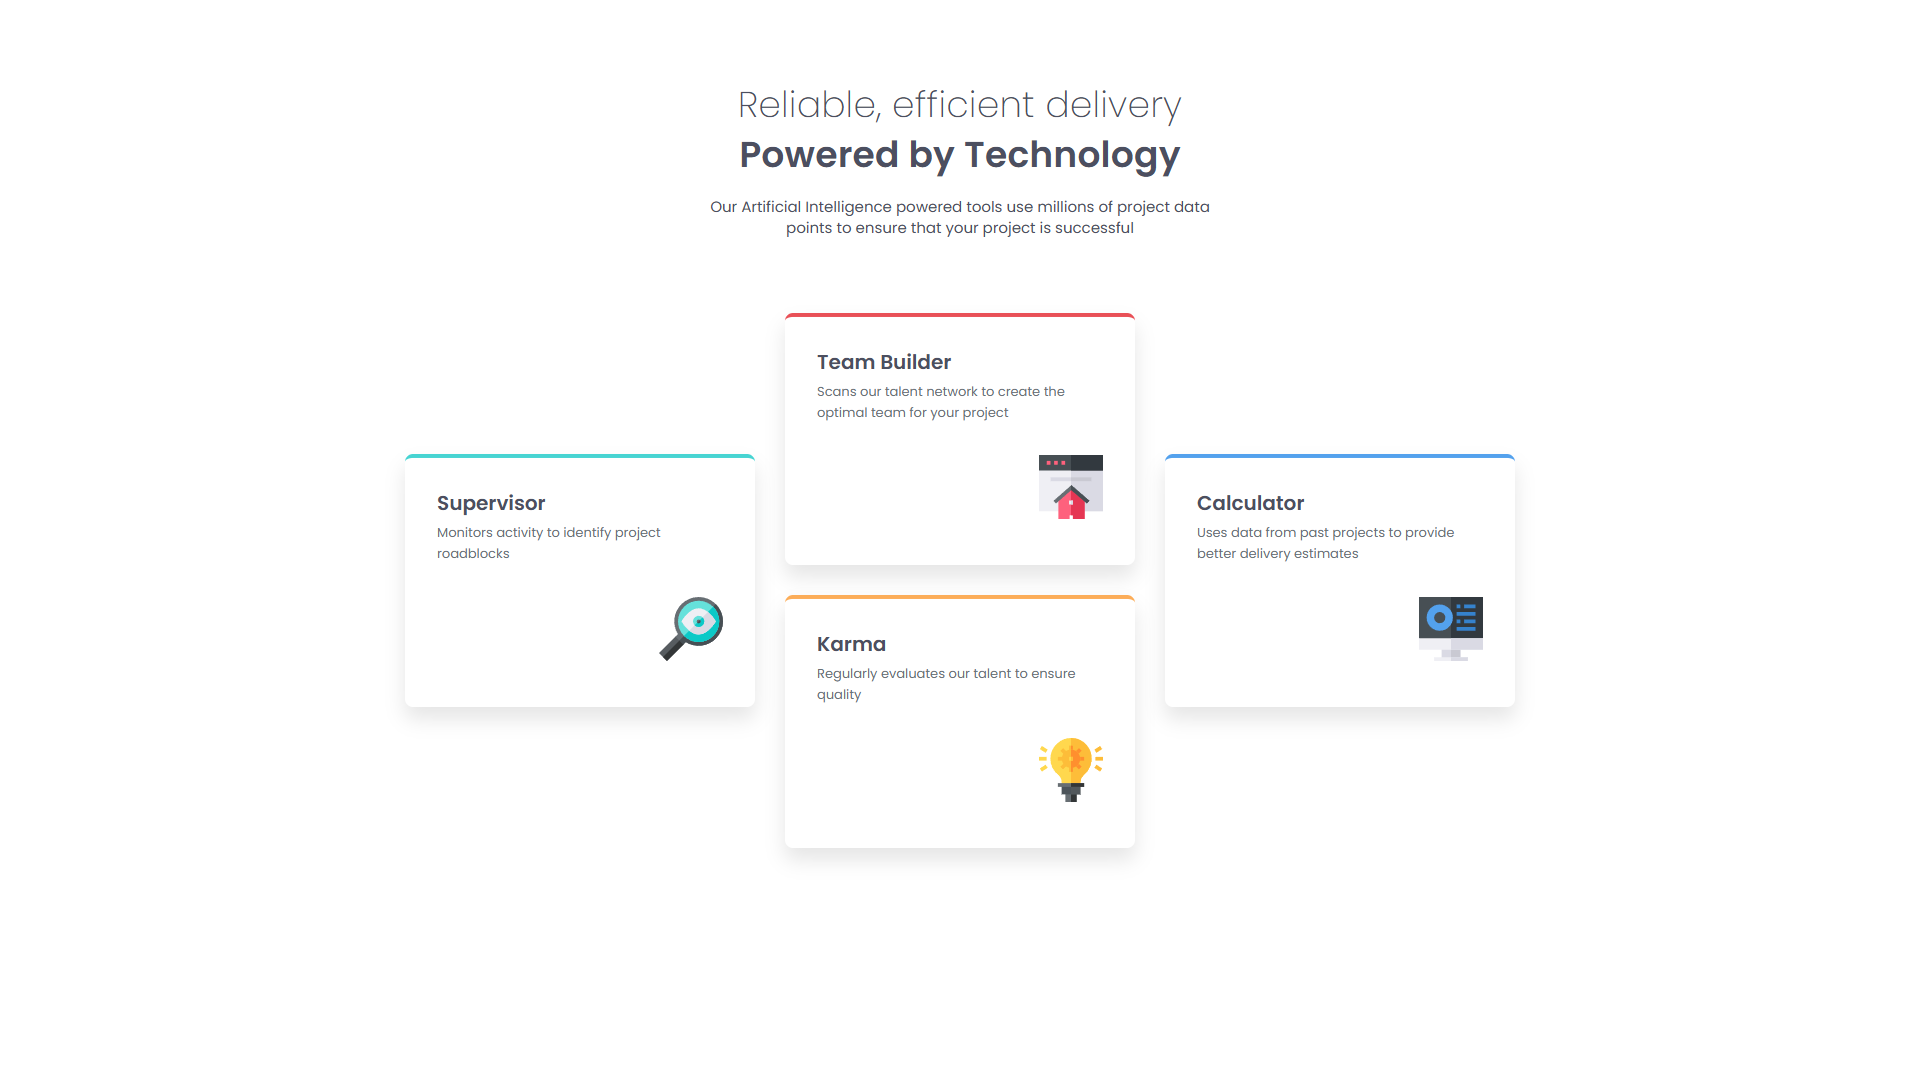
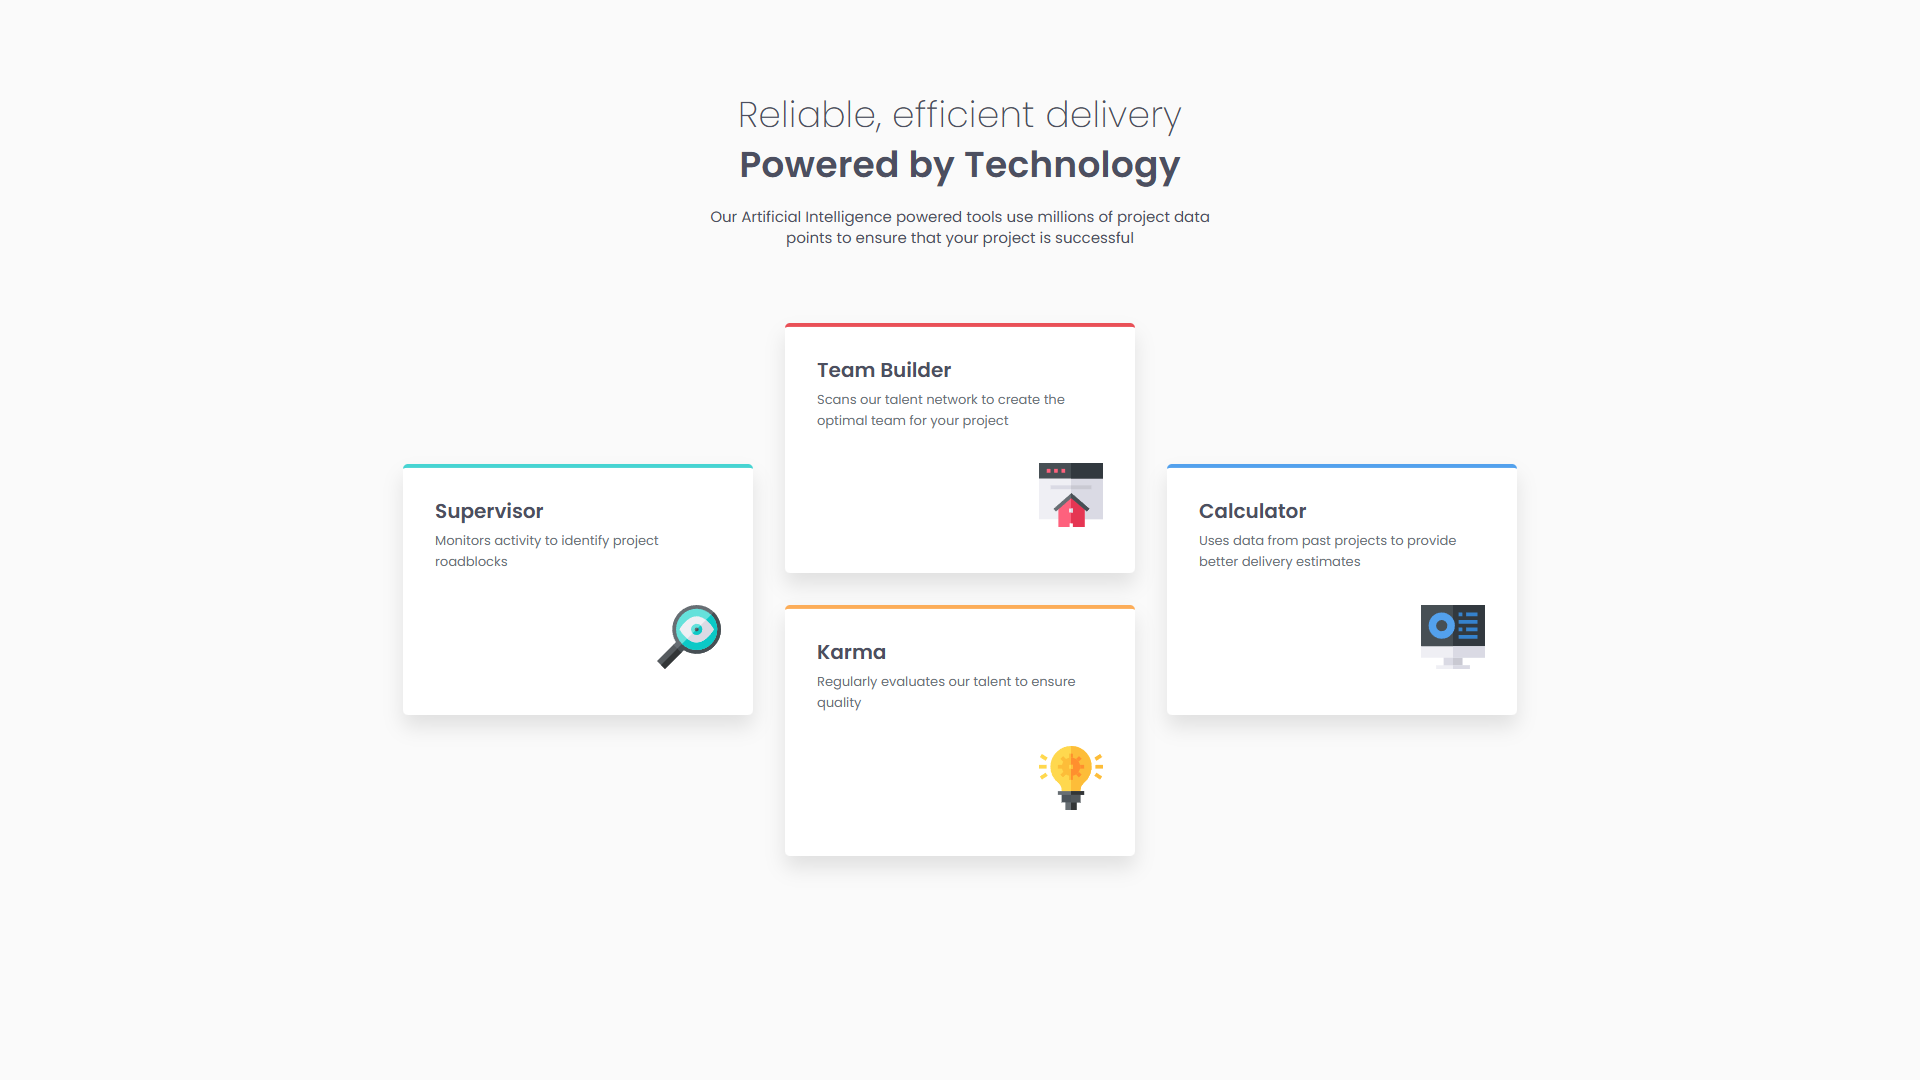
Trying min height on body

diff --git a/styles.css b/styles.css
@@ -16,6 +16,9 @@ body {
     display: flex;
     justify-content: center;
     padding: 50px 24px;
+    margin: 0;
+    box-sizing: border-box;
+    min-height: 100vh;
 }
 
 main {
